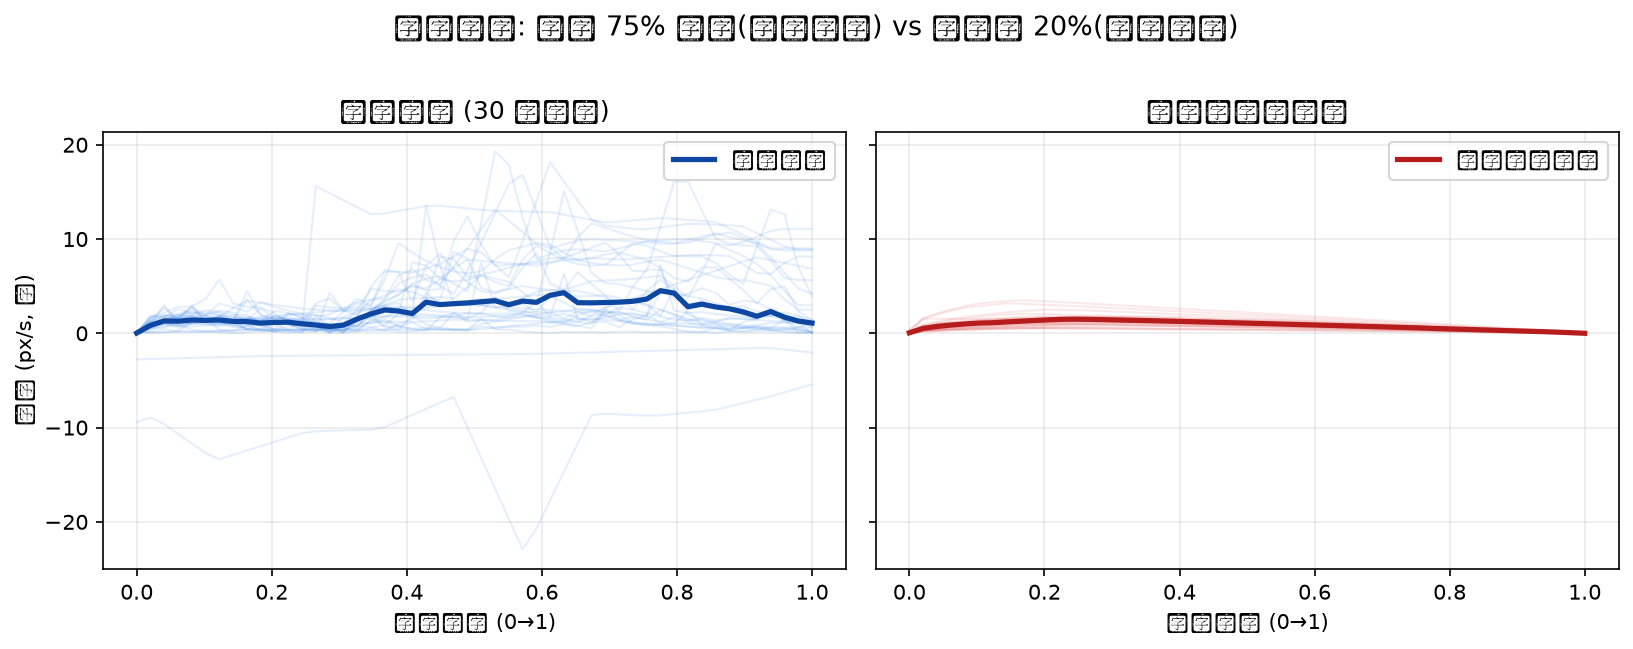
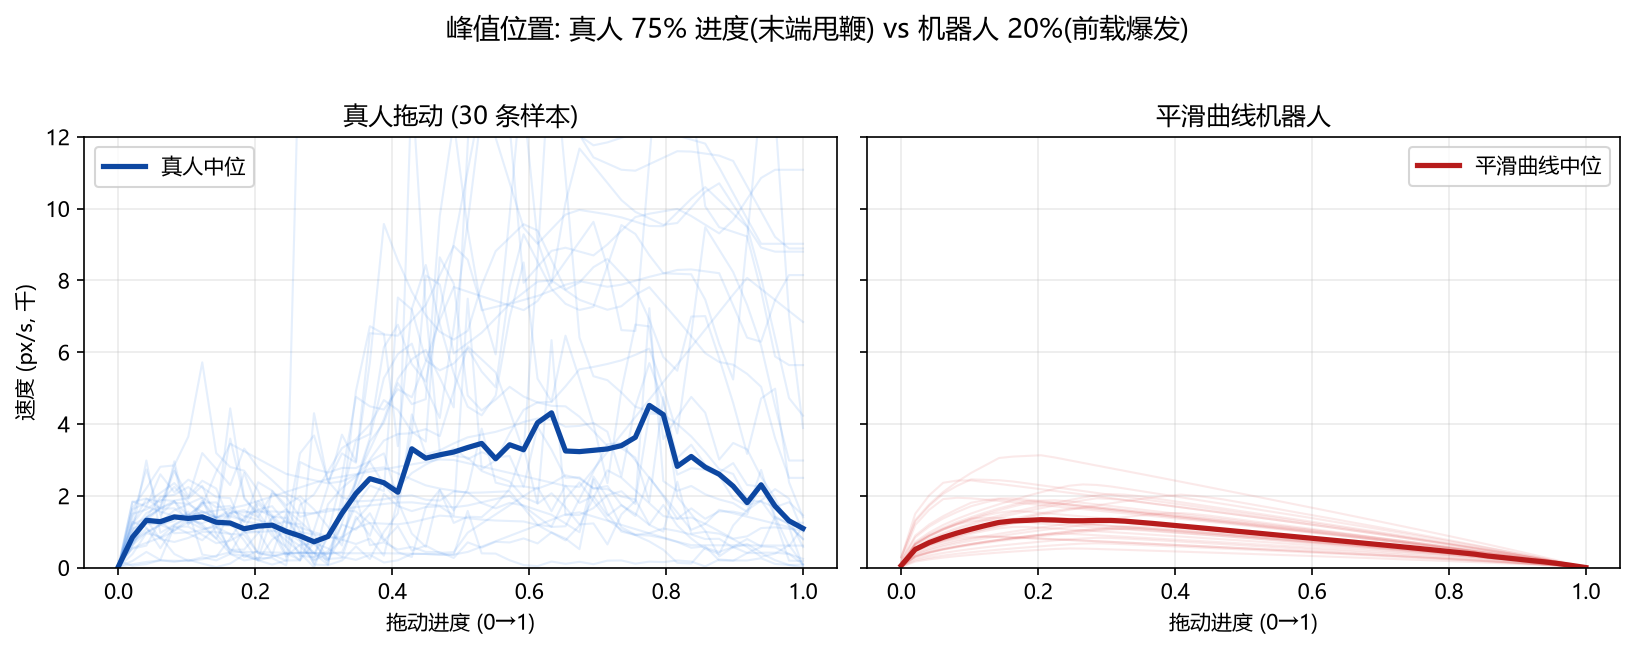
docs: 速度对比图修复中文字体+统一量程, 嵌入 README

diff --git a/README.md b/README.md
@@ -22,6 +22,8 @@ AUC=1.000 完美可分——教科书式的平滑曲线全是机器指纹：
 真人形态是「**慢逼近 → 谷底犹豫 → 末端甩鞭 → 收尾**」，
 本生成器按此重构（细节见 [docs/轨迹形态理论.md](docs/轨迹形态理论.md) 与 `human_track.py` 注释）。
 
+![真人 vs 平滑曲线机器人 速度-进度对比](speed_profile.png)
+
 ## 使用
 
 ```python
